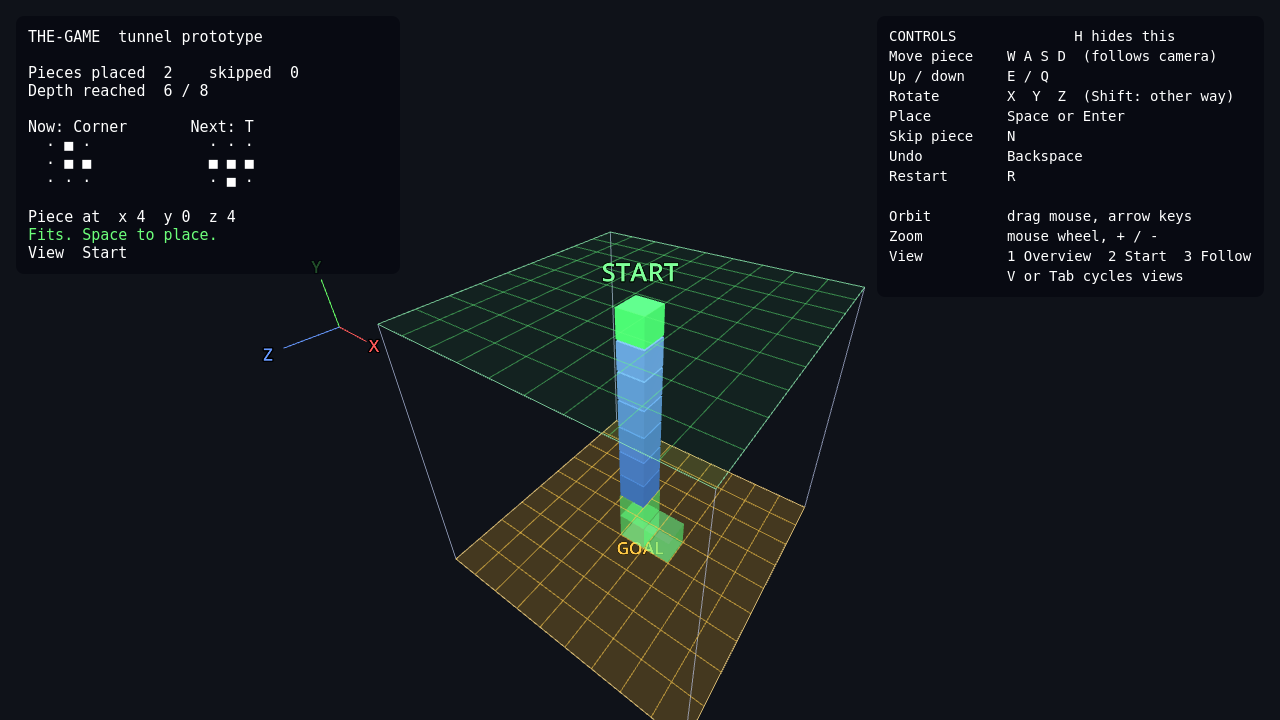
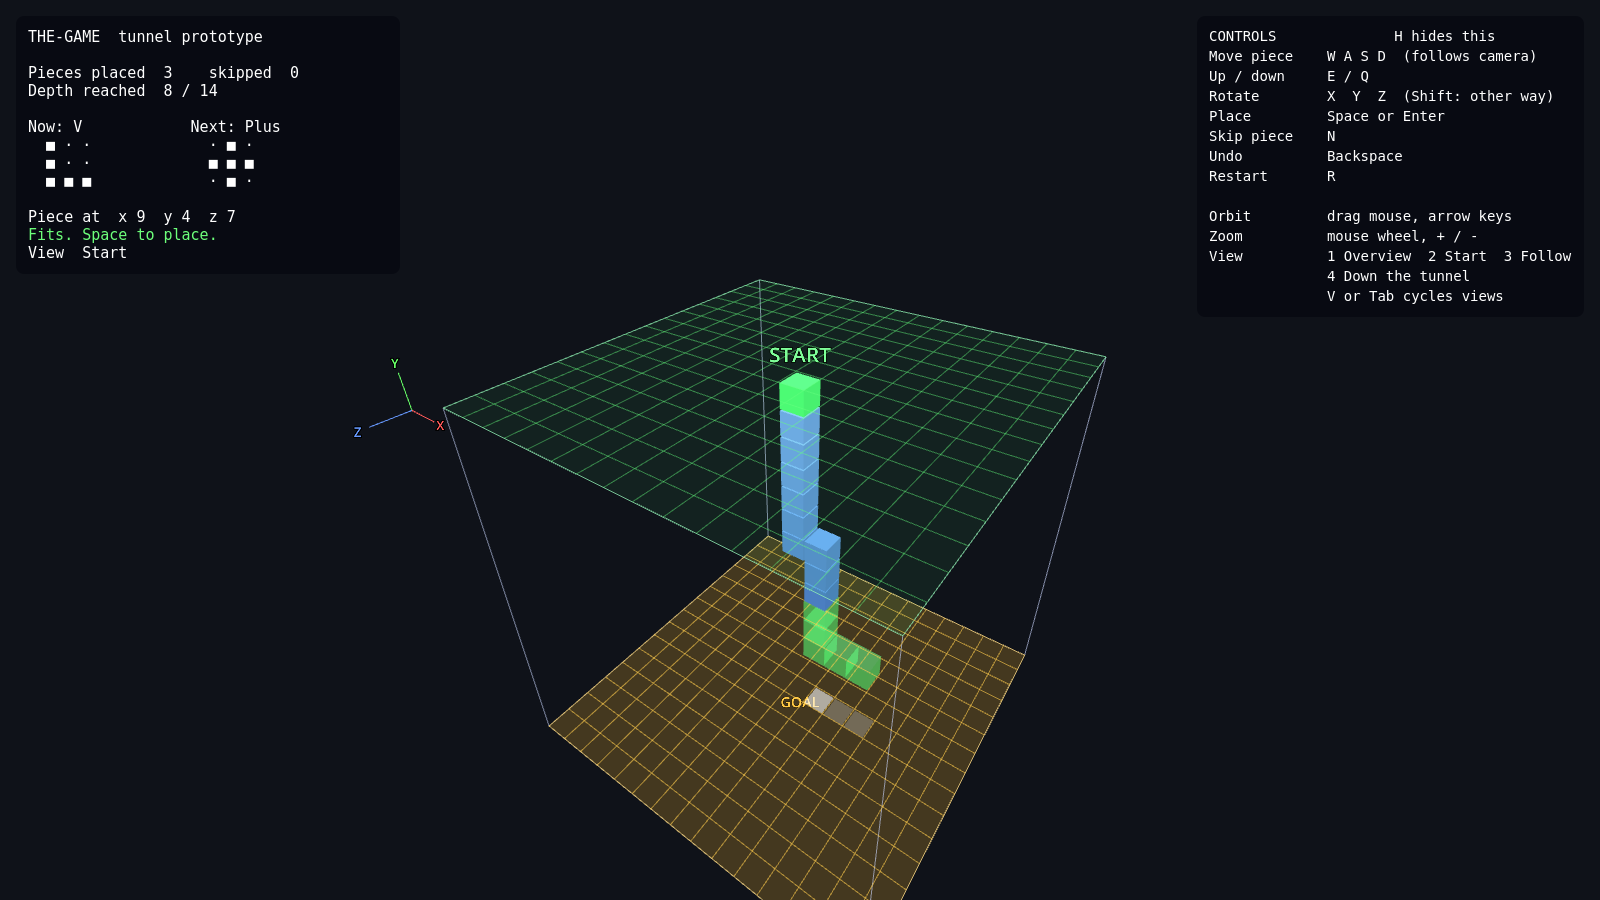
Bigger window, 15x15x15 cube and a down-the-tunnel view
- Window opens maximized at 1600x900 by default
- Default cube is now 15x15x15
- New view (key 4) looks from above the start straight down the tunnel
  line to the goal face, with a narrow lens and a see-through tunnel
- Piece movement stays camera-relative when looking straight down

Claude-Session: https://claude.ai/code/session_017mWnnHCrqxRS4kLCEN61Aj

diff --git a/README.md b/README.md
@@ -1,12 +1,17 @@
 # THE-GAME
 
 A 3D tunnel-building puzzle. The play area is a cube made of small cells.
-You start in the centre of the top face and must dig a tunnel to the bottom
+You start in the centre of the top face of a 15x15x15 cube and must dig a tunnel to the bottom
 face using flat pieces (up to 3x3 cells). Each new piece must touch your
 tunnel somewhere. Later, several players will dig crossing tunnels and block
 each other.
 
 ![Prototype screenshot](docs/screenshot.png)
+
+The "down the tunnel" view (key **4**) looks from above the start straight
+at the goal face:
+
+![Down the tunnel view](docs/tunnel-view.png)
 
 ## Run the prototype
 
@@ -28,6 +33,10 @@ You only need Godot. It's free, about 100 MB, and needs no installer.
 
 To stop the game, close its window or press **F8** in the editor.
 
+The game opens maximized. Newer Godot versions (4.4 and later) may run it
+inside the editor's **Game** tab instead. For a separate window, open the
+Game tab's **⋮** menu and turn off embedding.
+
 ## Controls
 
 | What | Keys |
@@ -41,7 +50,7 @@ To stop the game, close its window or press **F8** in the editor.
 | Restart | **R** |
 | Orbit the camera | Drag with the mouse (any button), or the **arrow keys**. Two-finger scroll on a trackpad also works. |
 | Zoom | Mouse wheel, **+** / **-**, or pinch on a trackpad |
-| View mode | **1** Overview (whole cube), **2** Start (default), **3** Follow piece. **V** or **Tab** cycles. |
+| View mode | **1** Overview (whole cube), **2** Start (default), **3** Follow piece, **4** Down the tunnel (looks from above the start straight down to the goal face; the tunnel turns see-through). **V** or **Tab** cycles. |
 | Show / hide help | **H** |
 
 The keys are read by their letter, so on a Swiss/German keyboard **Y** and
@@ -61,7 +70,7 @@ The keys are read by their letter, so on a Swiss/German keyboard **Y** and
 Open `scenes/main.tscn` in Godot and click the **Main** node. In the
 Inspector on the right you can change:
 
-- **Grid Size**: the cube size in cells (default 9 x 9 x 9).
+- **Grid Size**: the cube size in cells (default 15 x 15 x 15).
 - **Piece Sizes**: which piece sizes are dealt, by number of cells
   (default 3, 4 and 5). Set it to just `4` and every piece has 4 cells.
 
